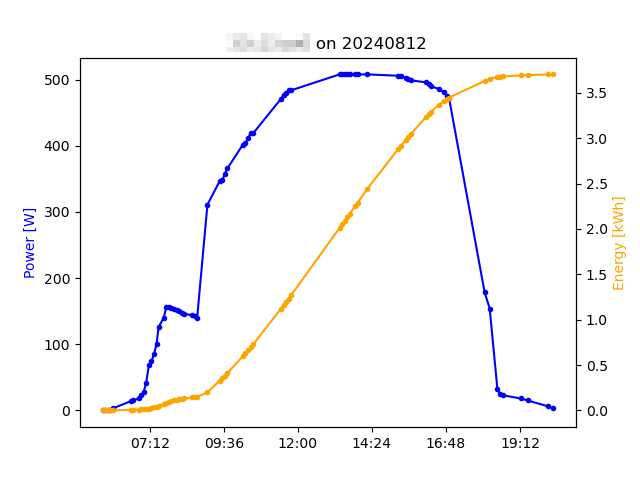
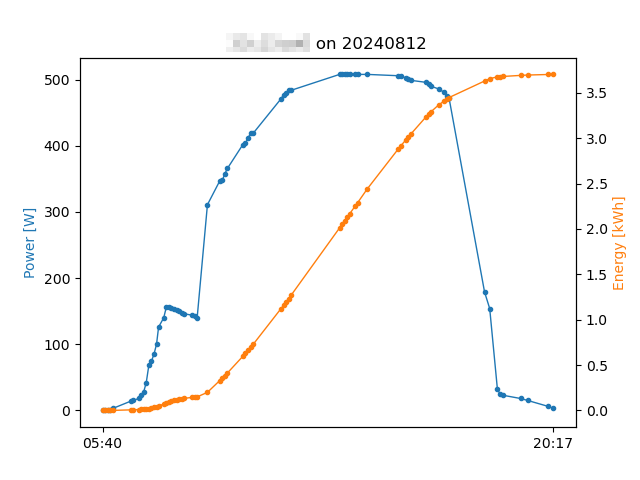
standard colors, thinner lines

diff --git a/NEPviewerCR.py b/NEPviewerCR.py
@@ -43,13 +43,14 @@ for line in data:
         kwh_s.append(float(kwh))
 
 # do plot:
-color_s = [ 'blue', 'orange' ]
+color_s = plt.rcParams['axes.prop_cycle'].by_key()['color']
 fig,ax1 = plt.subplots()
 ax2 = ax1.twinx()
-ax1.plot(time_s,w_s  ,marker='.',color=color_s[0])
-ax2.plot(time_s,kwh_s,marker='.',color=color_s[1])
+ax1.plot(time_s,w_s  ,marker='.',color=color_s[0],lw=1)
+ax2.plot(time_s,kwh_s,marker='.',color=color_s[1],lw=1)
 ax1.set_ylabel('Power [W]'   ,color=color_s[0])
 ax2.set_ylabel('Energy [kWh]',color=color_s[1])
 plt.gca().xaxis.set_major_formatter(DateFormatter('%H:%M'))
+plt.xticks([min(time_s),max(time_s)])
 plt.title(what)
 plt.show()
